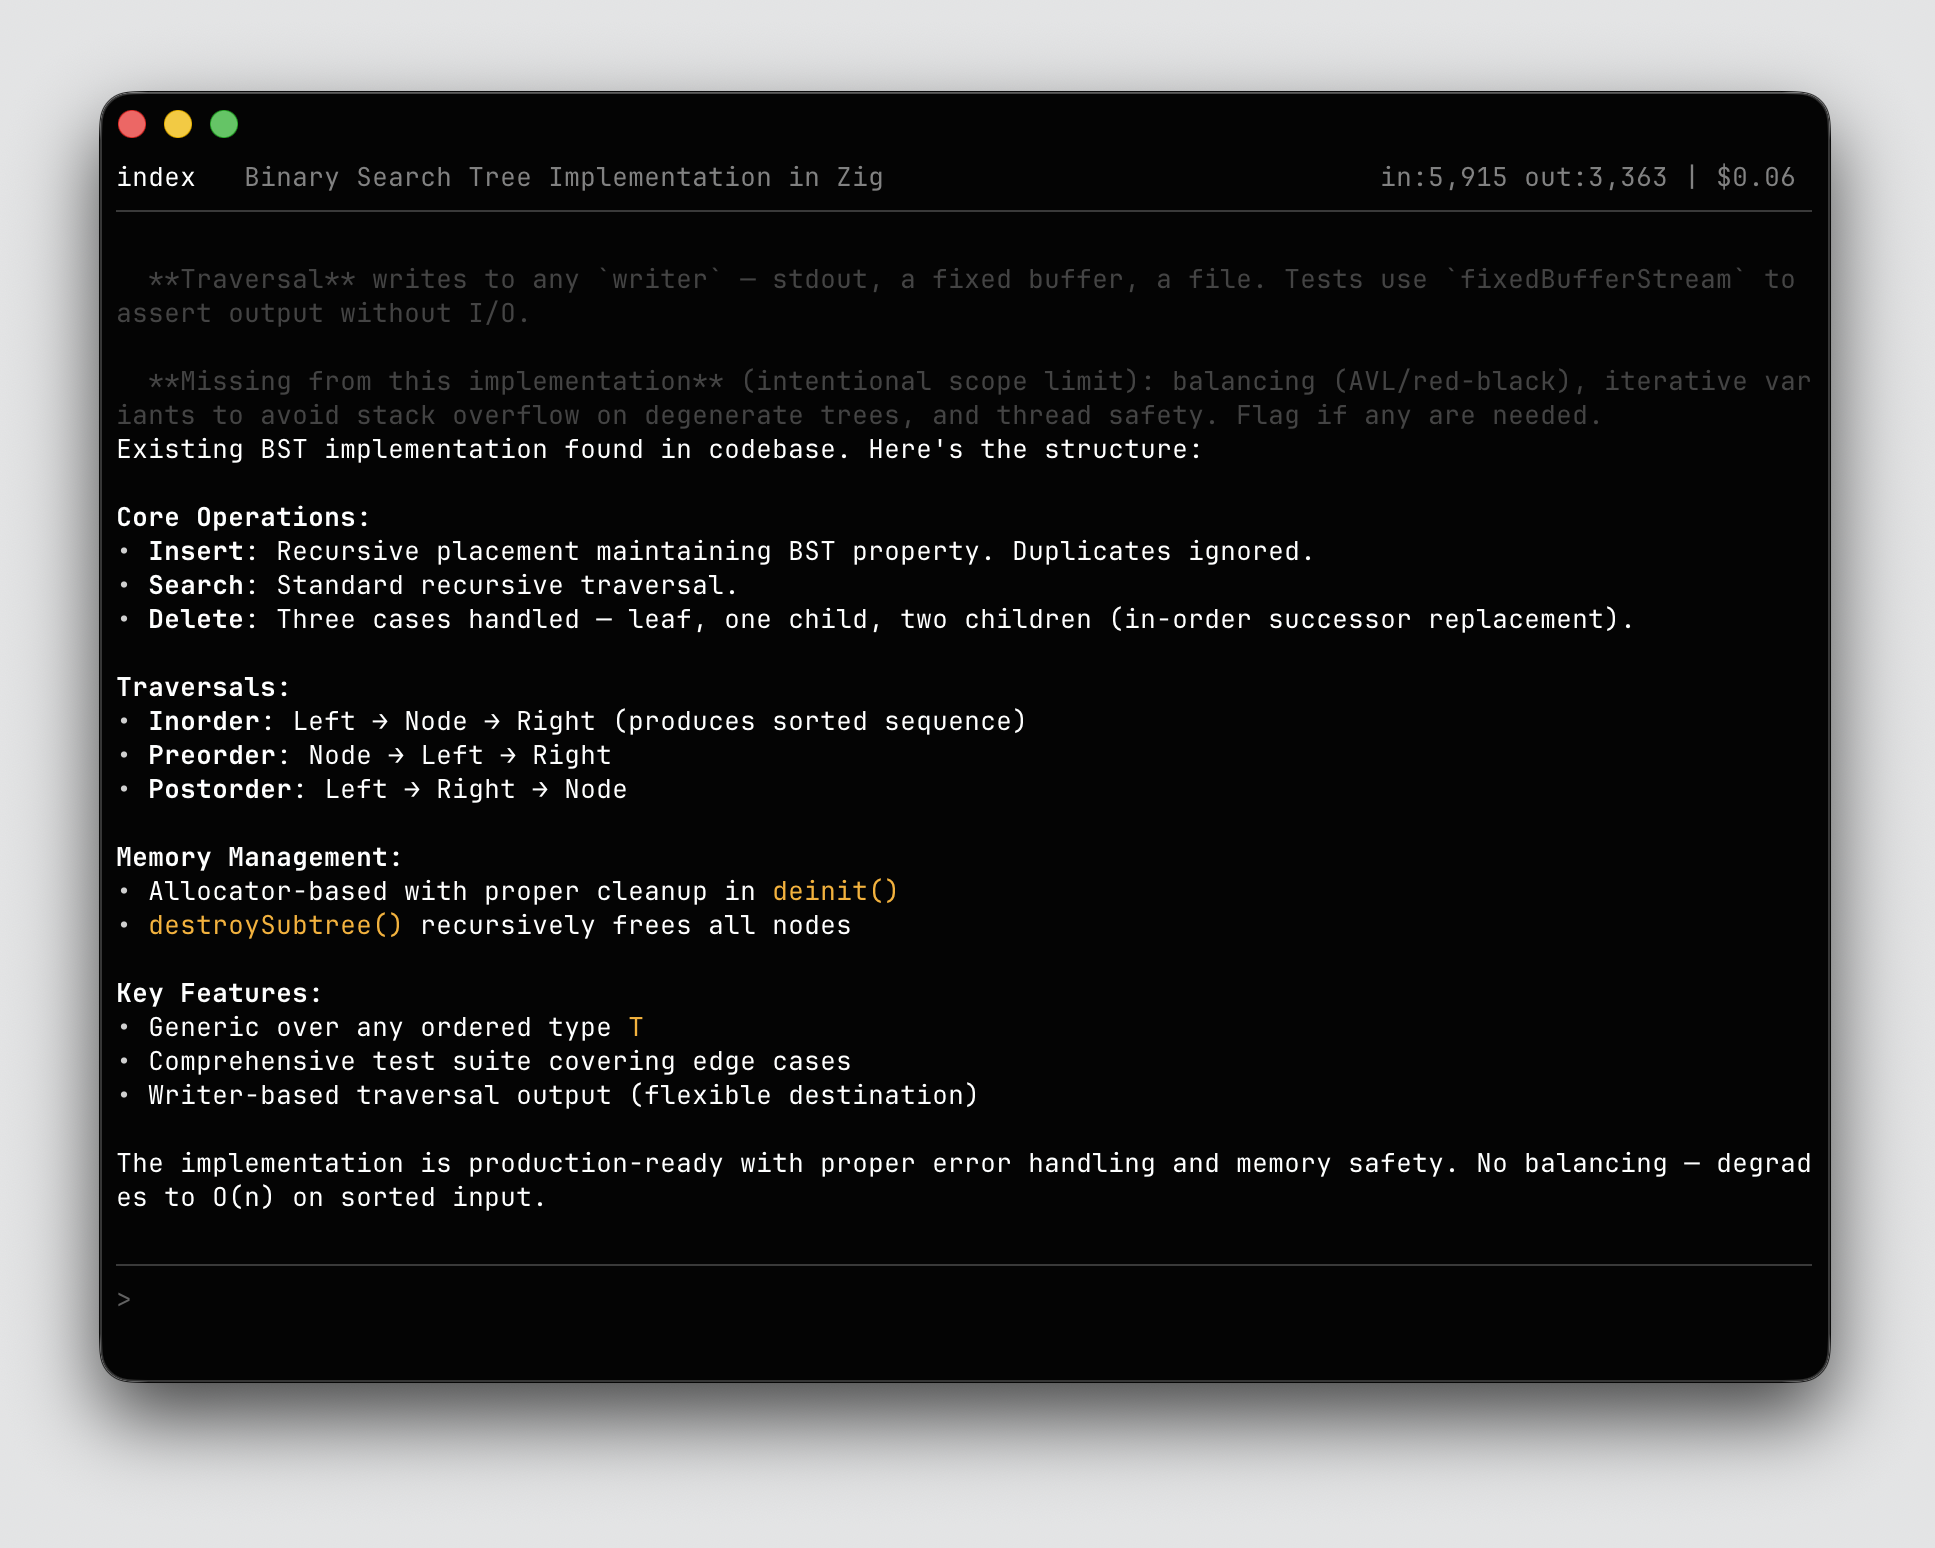
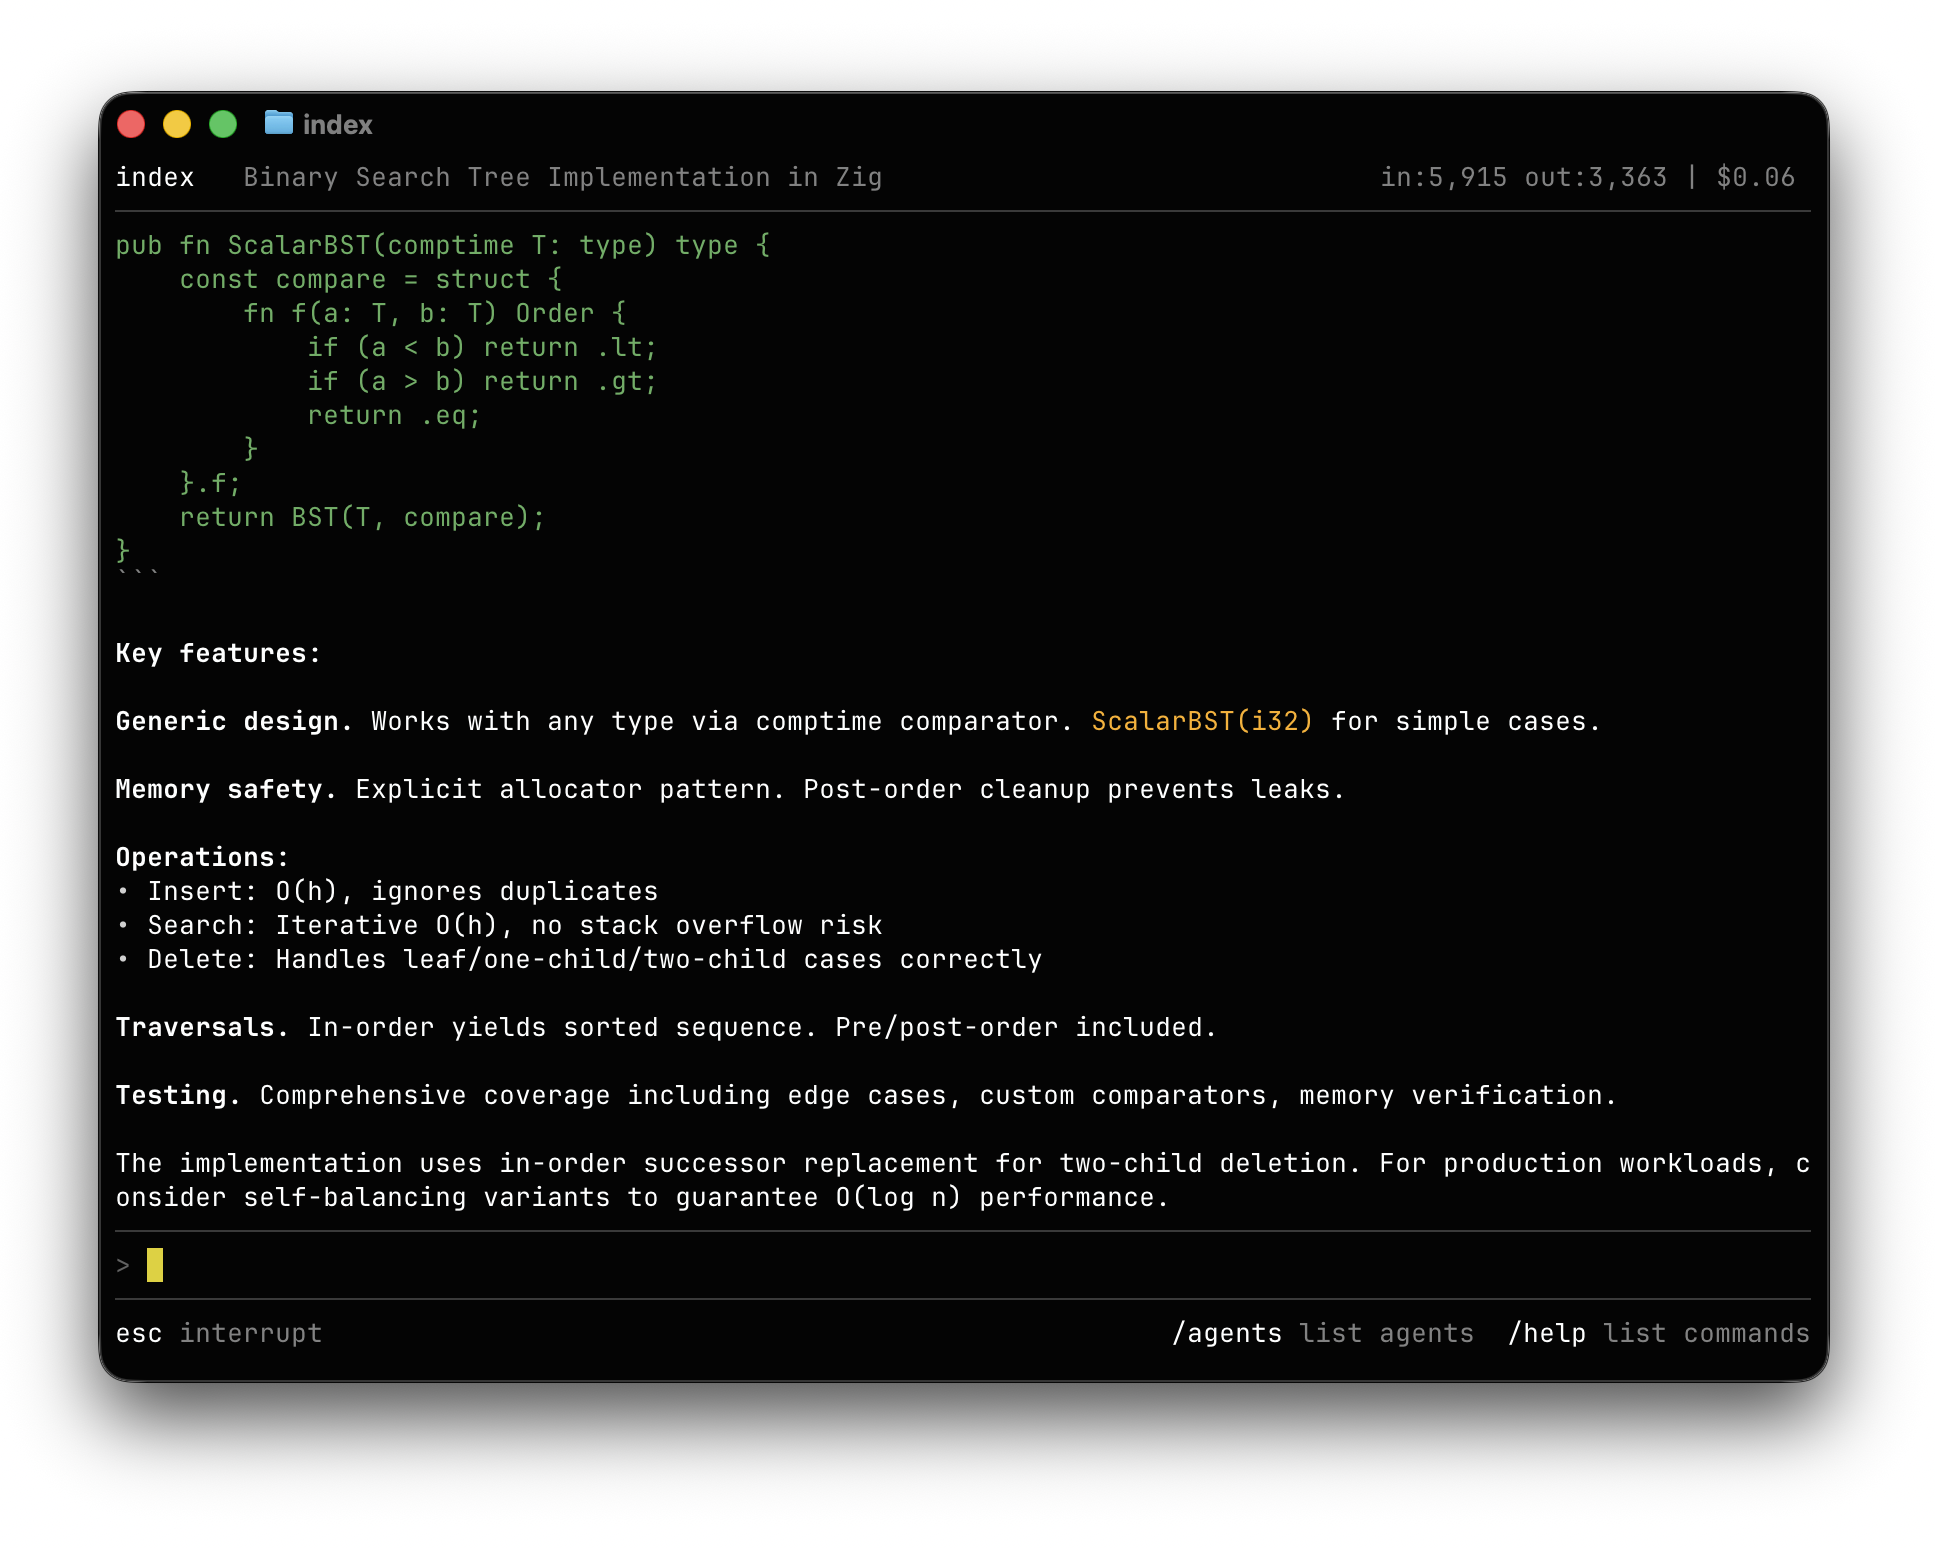
add command helpers to TUI

diff --git a/src/tui/tui.cpp b/src/tui/tui.cpp
@@ -30,7 +30,7 @@ void TUI::init(const std::string& agent,
     draw_header();
     draw_sep();
     erase_chrome_row(input_row());
-    erase_chrome_row(pad_row());
+    draw_footer_hint();
     std::printf("\033[%d;1H", kHeaderRows + 1);
     std::fflush(stdout);
 }
@@ -43,7 +43,7 @@ void TUI::resize() {
     draw_header();         // redraws identity; current_status_ preserved
     draw_sep();
     erase_chrome_row(input_row());
-    erase_chrome_row(pad_row());
+    draw_footer_hint();
     std::fflush(stdout);
 }
 
@@ -190,7 +190,7 @@ void TUI::draw_header_locked() {
     // the transient/important signal (thinking..., queued, scroll position).
     const bool have_status = !current_status_.empty();
     const std::string& right_text = have_status ? current_status_ : current_stats_;
-    std::string right_vis = right_text.empty() ? "" : right_text + "   ";
+    std::string right_vis = right_text.empty() ? "" : right_text;
     int pad = std::max(0, cols_ - (int)left_vis.size() - (int)right_vis.size());
 
     std::printf("\0337");
@@ -211,6 +211,24 @@ void TUI::draw_header_locked() {
     std::printf("\033[0m");
 
     std::printf("\0338");
+    std::fflush(stdout);
+}
+
+void TUI::draw_footer_hint() {
+    std::lock_guard<std::recursive_mutex> tlk(tty_mu_);
+    static constexpr const char* kLeft  = "esc \033[2minterrupt\033[0m";
+    static constexpr int         kLeftVis  = 4 + 9;
+    static constexpr const char* kRight = "/agents \033[2mlist agents\033[0m  "
+                                          "/help \033[2mlist commands\033[0m";
+    static constexpr int         kRightVis = 8 + 11 + 2 + 6 + 13;
+    int pad = std::max(1, cols_ - kLeftVis - kRightVis);
+    std::printf("\0337");
+    std::printf("\033[%d;1H\033[2K\033[38;5;237m", hint_sep_row());
+    for (int i = 0; i < cols_; ++i) std::printf("─");
+    std::printf("\033[0m");
+    std::printf("\033[%d;1H\033[2K", pad_row());
+    std::printf("%s%*s%s", kLeft, pad, "", kRight);
+    std::printf("\033[0m\0338");
     std::fflush(stdout);
 }
 

diff --git a/include/tui/tui.h b/include/tui/tui.h
@@ -10,8 +10,9 @@
 //   row 2            dim separator
 //   rows 3..N-3      scroll region (streamed model output lives here)
 //   row  N-2         mid separator above input
-//   rows N-1..N-k    readline input area (1..kMaxInputRows, grows on wrap)
-//   row  N           blank padding
+//   rows N-2..N-k-1  readline input area (1..kMaxInputRows, grows on wrap)
+//   row  N-1         dim separator above hint row
+//   row  N           hint row (key / command hints)
 //
 // Status is on the same row as identity; when active it preempts stats on the
 // right side (stats are already dim and unimportant vs a live "thinking..."
@@ -45,7 +46,7 @@ public:
     static constexpr int kHeaderRows   = 2;
     static constexpr int kSepRows      = 1;   // mid separator above input area
     static constexpr int kMaxInputRows = 5;
-    static constexpr int kBottomPadRows = 1;  // blank row at the bottom
+    static constexpr int kBottomPadRows = 2;  // hint separator + hint row
 
     // Enter alternate screen, set scroll region, draw chrome.
     void init(const std::string& agent,
@@ -132,12 +133,14 @@ private:
     int sep_row()       const { return rows_ - kBottomPadRows - input_rows_; }
     int input_top_row() const { return rows_ - kBottomPadRows - input_rows_ + 1; }
     int input_row()     const { return rows_ - kBottomPadRows; }
+    int hint_sep_row()  const { return rows_ - 1; }
     int pad_row()       const { return rows_; }
 
     void set_scroll_region();
     void erase_chrome_row(int row);
     void draw_header();
     void draw_header_locked();
+    void draw_footer_hint();
 };
 
 // Background spinner that ticks a "thinking..." label into TUI::set_status.

diff --git a/src/main.cpp b/src/main.cpp
@@ -275,7 +275,7 @@ static void cmd_interactive() {
 
             // Completing the slash command itself
             if (only_cmd || buf.empty()) {
-                return match({"/send","/ask","/use","/list","/status","/tokens",
+                return match({"/send","/ask","/use","/agents","/status","/tokens",
                               "/create","/remove","/reset","/compact","/model",
                               "/loop","/loops","/log","/watch",
                               "/kill","/suspend","/resume","/inject",
@@ -331,7 +331,7 @@ static void cmd_interactive() {
                 quit_requested = true; return;
             }
 
-            if (cmd == "list") {
+            if (cmd == "agents") {
                 for (auto& id : orch.list_agents())
                     output_queue.push("  " + id + "\n");
                 return;
@@ -747,7 +747,7 @@ static void cmd_interactive() {
                     "  /send <agent> <msg>              — send to specific agent\n"
                     "  /ask <query>                     — ask index master\n"
                     "  /use <agent>                     — switch current agent\n"
-                    "  /list                            — list agents\n"
+                    "  /agents                          — list agents\n"
                     "  /status                          — system status\n"
                     "  /tokens                          — token usage\n"
                     "  /create <id>                     — create agent (default config)\n"

diff --git a/src/markdown.cpp b/src/markdown.cpp
@@ -1,4 +1,4 @@
-// index/src/markdown.cpp — Markdown-to-ANSI terminal renderer
+// index_ai/src/markdown.cpp — Markdown-to-ANSI terminal renderer
 
 #include "markdown.h"
 #include <cctype>
@@ -155,7 +155,7 @@ std::string MarkdownRenderer::process_line(const std::string& line) {
         for (auto** p = kCmdPrefixes; *p; ++p) {
             size_t plen = strlen(*p);
             if (line.size() >= plen && line.substr(0, plen) == *p) {
-                return fg(172) + std::string(DIM) + "  > " + line + RST;
+                return fg(172) + std::string(DIM) + "> " + line + fg(252) + RST;
             }
         }
     }

diff --git a/README.md b/README.md
@@ -64,7 +64,7 @@ index
 
 | Command | Description |
 |---------|-------------|
-| `/list` | List loaded agents |
+| `/agents` | List loaded agents |
 | `/status` | System status and per-agent stats |
 | `/tokens` | Full token usage breakdown with costs |
 | `/create <id>` | Create agent with default config |
